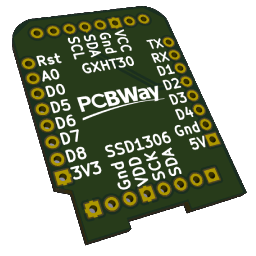
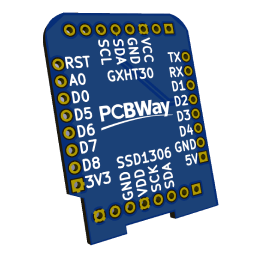
Added photos of actual PCB by PCBWay.

diff --git a/README.md b/README.md
@@ -20,9 +20,13 @@ All of these components are readily available at the time of writing, you should
 
 ### PCB
 
-The [`pcb`](/pcb/) directory contains the KiCad (9.0) design files for the Wemos D1 mini shield PCB. [PCBWay](https://www.pcbway.com/) reached out to me and was kind enough to support this project. When the PCBs have been received I will post pictures here and a link to the [PCBWay shared projects page](https://member.pcbway.com/specials/SharedProject) once it's done for easy ordering.
+The [`pcb`](/pcb/) directory contains the KiCad (9.0) design files for the Wemos D1 mini shield PCB. [PCBWay](https://www.pcbway.com/) reached out to me and was kind enough to support this project. The project is available at [PCBWay's Shared Projects](https://www.pcbway.com/project/shareproject/Temperature_display_f0e459fd.html) for easy ordering.
 
-![PCB front](img/pcb_front.png)  [![PCBWay logo](img/pcbway-logo-color.png)](https://www.pcbway.com/) ![PCB front](img/pcb_back.png)
+![PCB front](img/pcb_front.png)  [![PCBWay logo](img/pcbway-logo-color.png)](https://www.pcbway.com/) ![PCB back](img/pcb_back.png)
+
+[![PCB front](img/photo_front.jpg)](/img/PCBWay/7.jpg)  [![PCBWay logo](img/photo_both.jpg)](/img/PCBWay/6.jpg) [![PCB back](img/photo_back.jpg)](/img/PCBWay/8.jpg)
+
+For more pictures of the PCB and/or project see [the project page](https://www.pcbway.com/project/shareproject/Temperature_display_f0e459fd.html) or the [/img/PCBWay](/img/PCBWay/) directory. I would like to thank PCBWay again 🙏 Shipping was incredibly quick 🛫🛬 and the PCB is perfectly finished 👌
 
 In a next iteration I'm hoping to integrate the GXHT30 on the shield, but being pretty new to PCB design this first iteration uses a module.
 
